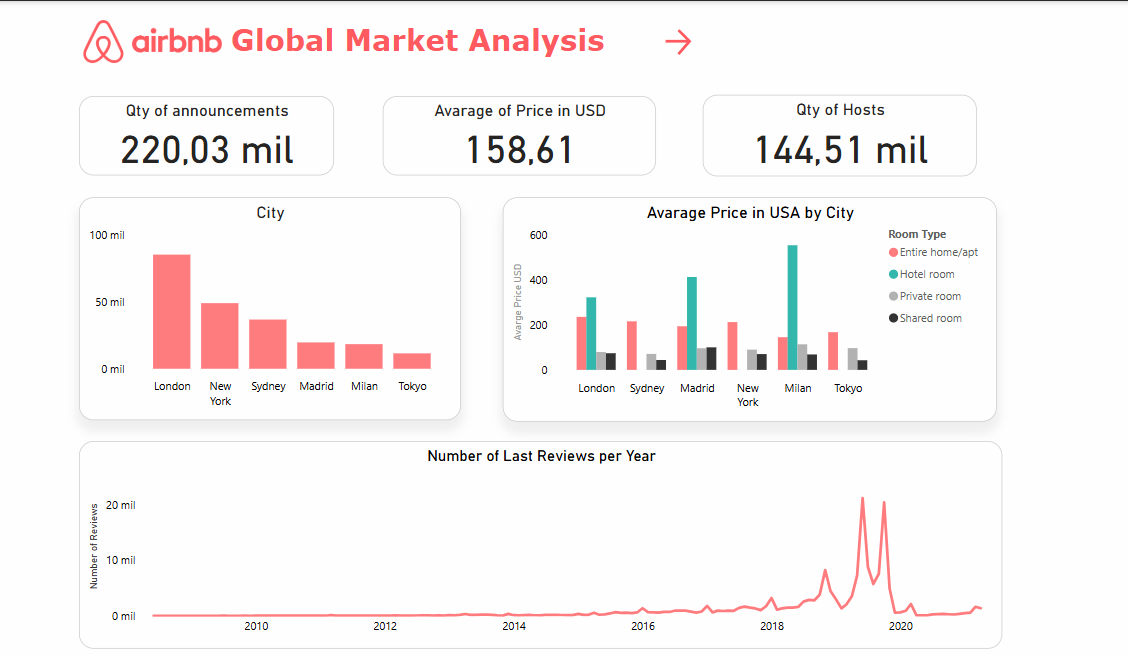
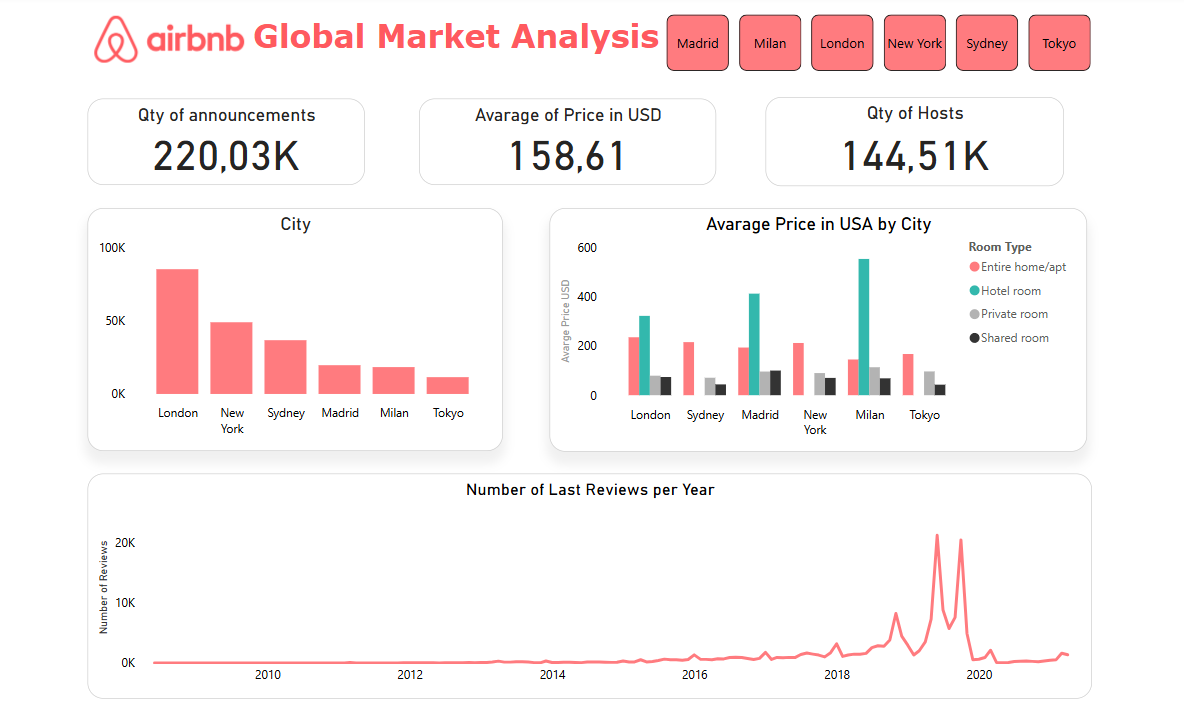
feat: add gif to readme

diff --git a/README.md b/README.md
@@ -90,9 +90,15 @@ Se contrastaron varias hipótesis, especialmente en la ciudad de **Madrid**:
 ## <span style="color: #FF5A5F">Dashboards de Power BI</span>
 
 <p align="center">
-  <img src="img/dashboard1.png" alt="Dashboard General" width="700"/>
+  <table>
+    <tr>
+      <td><img src="img/dashboard1.png" alt="Dashboard General" height="400"/></td>
+      <td><img src="img/Dashboard-movil.gif" alt="Vista móvil" height="400"/></td>
+    </tr>
+  </table>
 </p>
-Se desarrollaron dashboards interactivos  en Power BI que incluyen:
+
+Se desarrollaron dashboards interactivos en Power BI que incluyen:
 
 - Datos globales comparativos entre ciudades.
 - Análisis individual por ciudad (filtros por tipo, zona, precio...).
